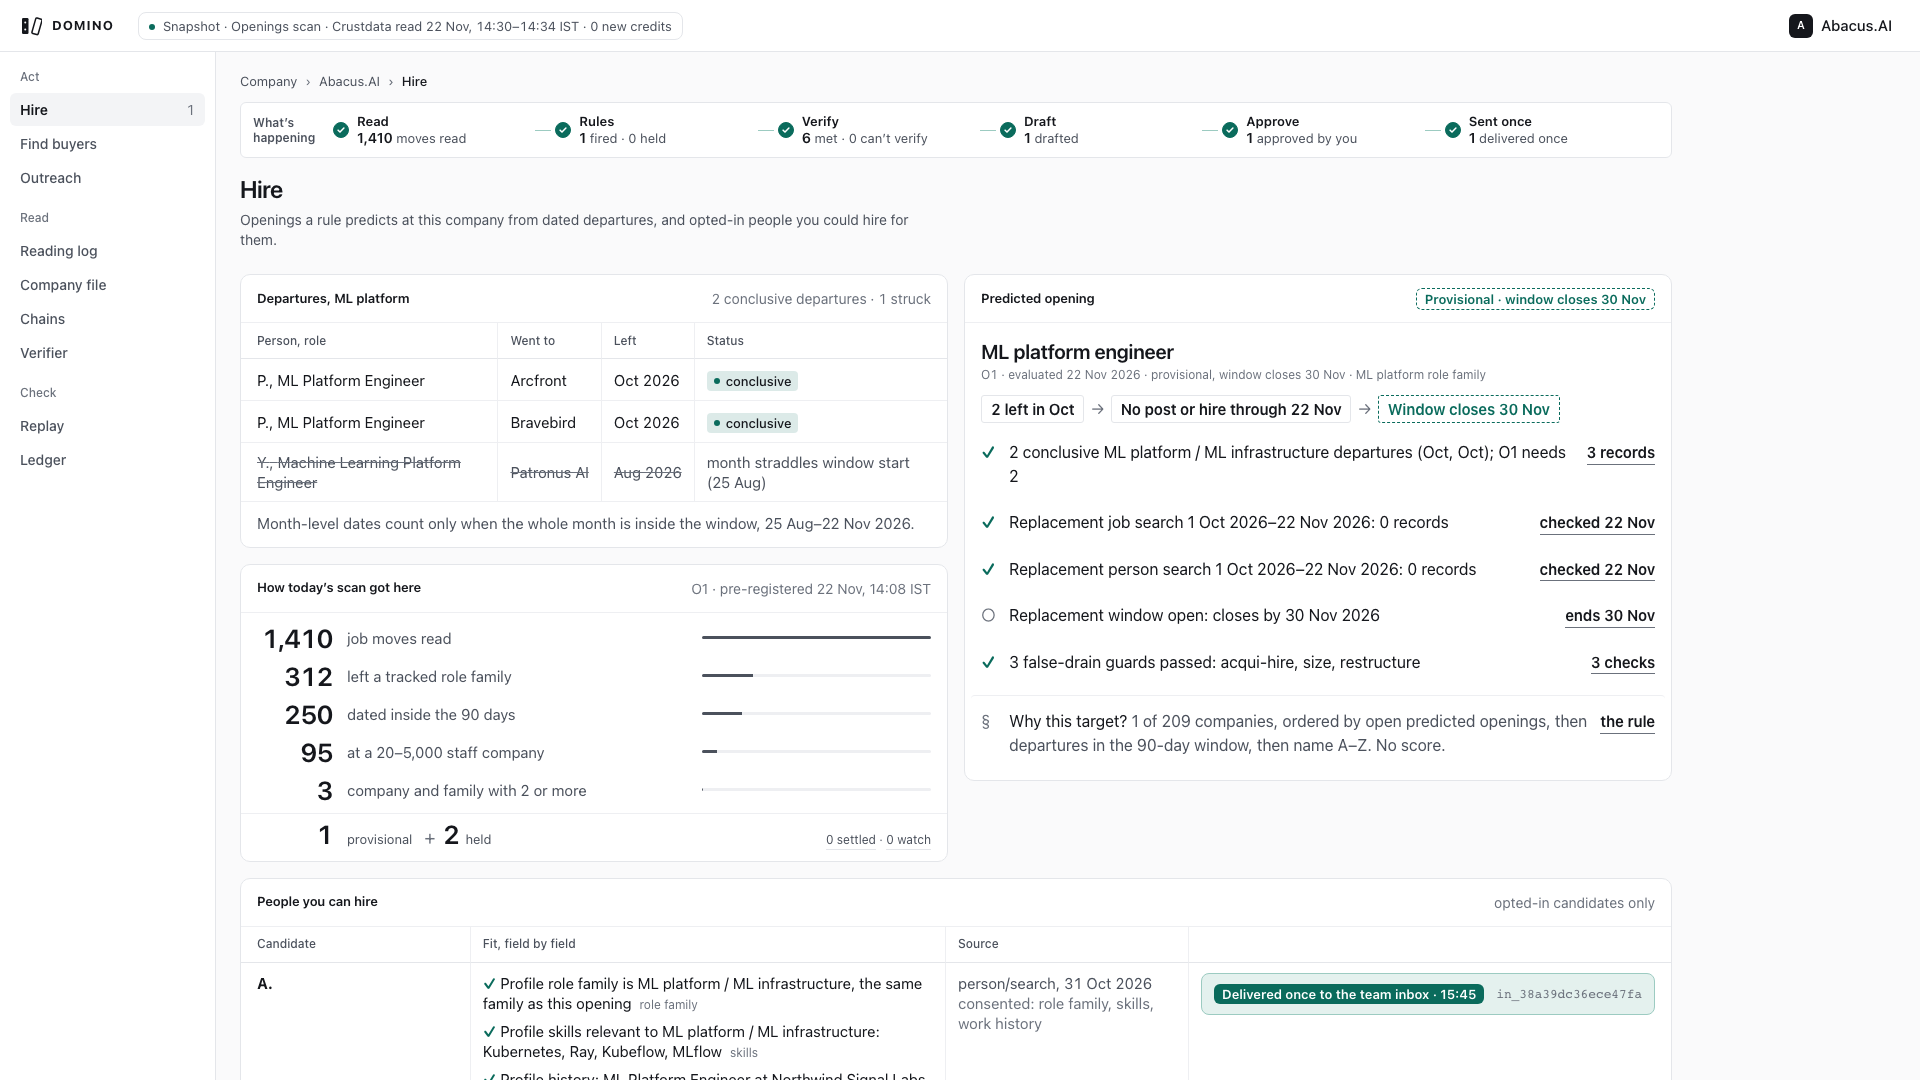
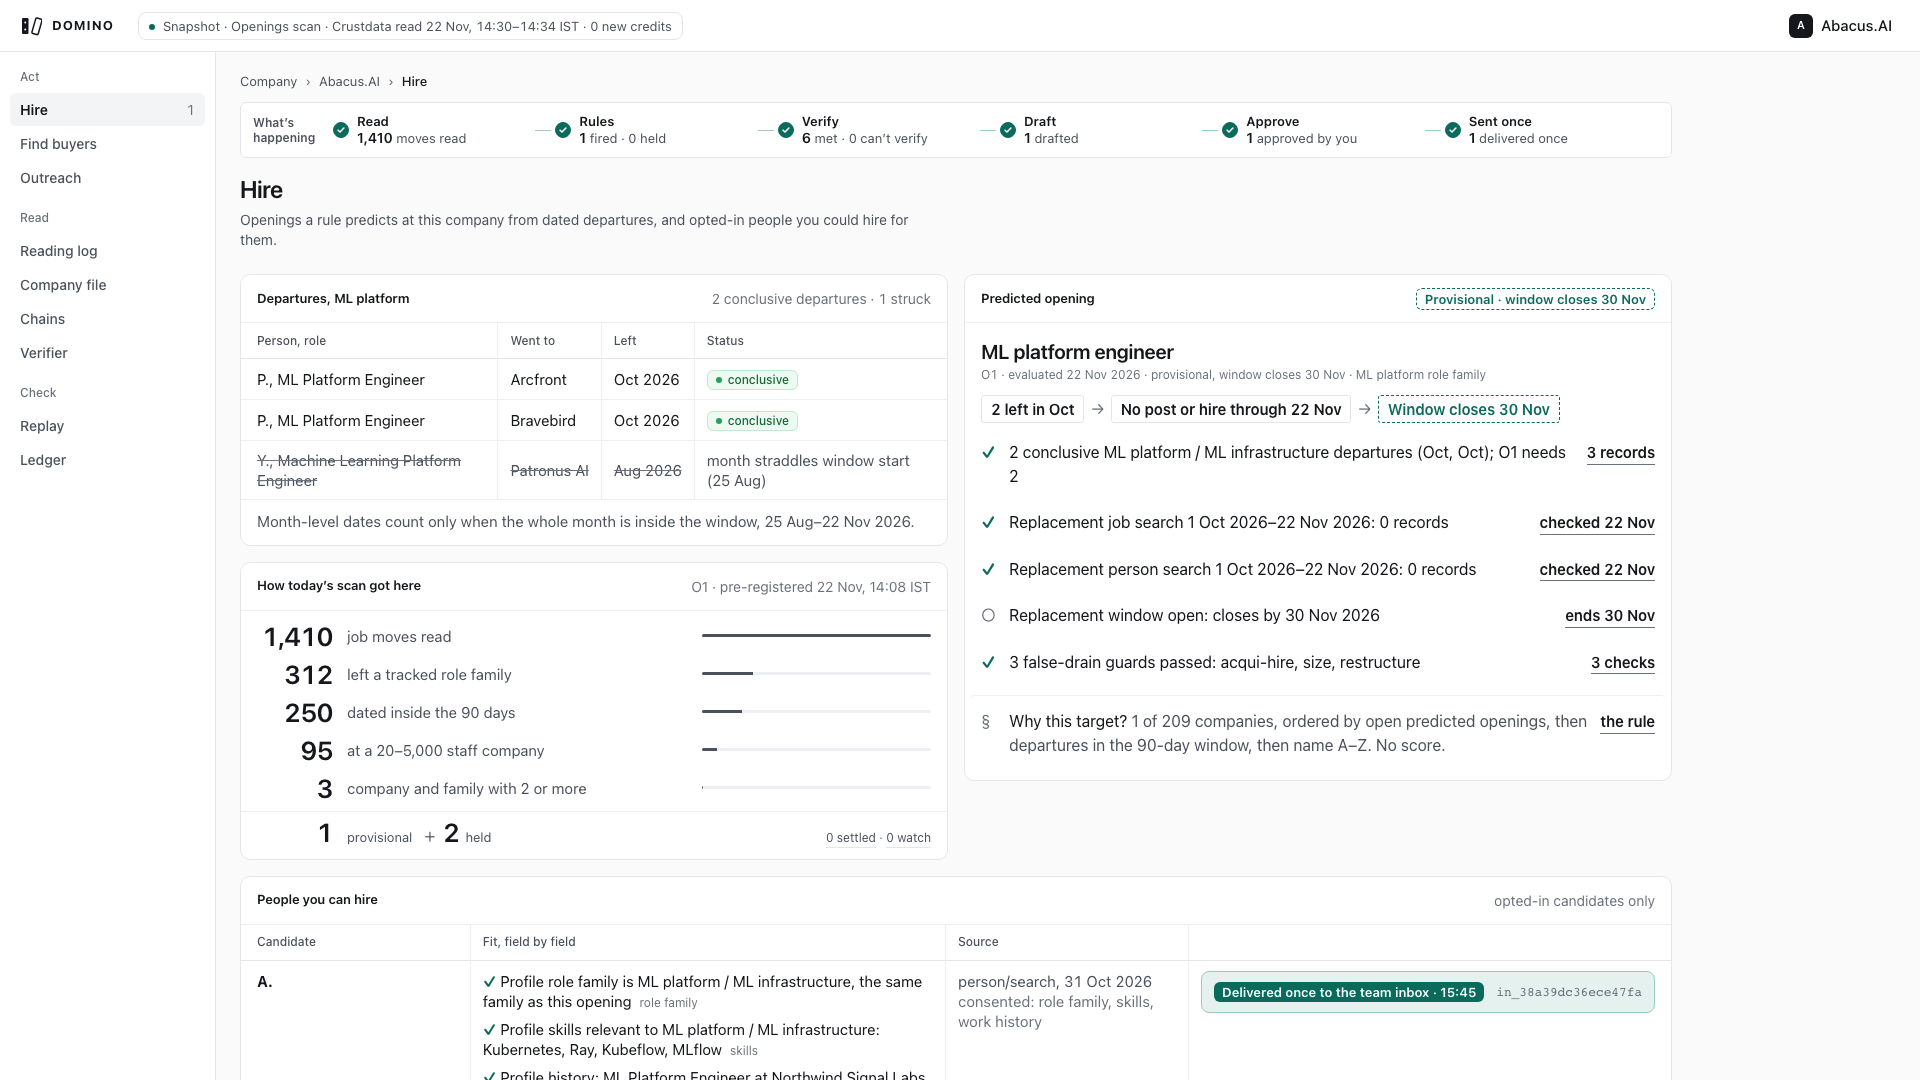
Hire and Reading log: shared colour chips (ctag + tone/src classes from p7-color) for decisions, sources and departure status

diff --git a/web2/src/features/reading/reading.css b/web2/src/features/reading/reading.css
@@ -132,31 +132,17 @@ tr:not(.rd-sub) + .rd-sub td, .rd-sub + .rd-sub td { border-top: 0; }
 .rd-showing, .rd-seg button span { font-variant-numeric: tabular-nums; }
 .rd-seg { border-radius: var(--r); }
 .rd-seg button { padding: 3px 10px; }
-.rd-pill {
-  display: inline-flex; align-items: center; gap: 6px; height: 22px; padding: 0 8px; border: 1px solid var(--rule); border-radius: var(--r);
-  font-size: var(--fs-cap); font-weight: var(--w-med); color: var(--ink); background: var(--surface); white-space: nowrap;
-}
-.rd-pill i { width: 6px; height: 6px; border-radius: var(--r-pill); background: var(--ink-3); flex: none; }
-.rd-pill-kept i, .rd-pill-provisional i { background: var(--acc); }
-.rd-pill-provisional { border-style: dashed; border-color: var(--acc); }
-.rd-pill-discarded { color: var(--ink-2); }
-.rd-pill-discarded i { background: transparent; border: 1.5px solid var(--ink-3); width: 7px; height: 7px; box-sizing: border-box; }
-.rd-pill-held, .rd-pill-inconclusive { color: var(--ink-2); background: repeating-linear-gradient(135deg, transparent 0 3px, var(--hatch) 3px 5px); }
 .rd-sub td { padding-top: 6px; padding-bottom: 6px; }
-.rd-sub .rd-pill { height: 20px; }
 @media (min-width: 1800px) {
   .rd-table, .rd-date { font-size: var(--fs-body); }
 }
 
-/* Attio SPEC + council r1: hairline column dividers, filled tinted chips with no stroke (source type neutral, kept a
-   teal tint for meaning), 38-40px rows (a 20px pill inside 9px cell padding), and the domain in sans like every cell. */
+/* Attio SPEC + council r1: hairline column dividers, 38-40px rows (a 20px shared .ctag inside 9px cell padding), the
+   domain in sans like every cell. Chip colours come from styles/colors.css (decision tone, source type). */
 .rd-table th + th, .rd-table td + td { border-left: 1px solid var(--rule-2); }
 .rd-table td { padding-top: 9px; padding-bottom: 9px; }
+.rd-table .rd-sub td { padding-top: 6px; padding-bottom: 6px; }
+.rd-table .ctag { height: 20px; }
+.rd-table .c-src { width: 140px; }
 .rd-dom { font-family: var(--sans); font-size: var(--fs-ui); letter-spacing: 0; }
-.rd-chip, .rd-pill { height: 20px; padding: 0 7px; border: 0; border-radius: var(--r-sm); font-size: var(--fs-cap); font-weight: var(--w-med); }
-.rd-chip { display: inline-flex; align-items: center; background: var(--hover); color: var(--ink-2); white-space: nowrap; }
-.rd-pill { background: var(--hover); }
-.rd-pill-kept { background: color-mix(in srgb, var(--acc) 14%, transparent); }
-.rd-pill-provisional { background: transparent; border: 1px dashed var(--acc); }
-.rd-pill-held, .rd-pill-inconclusive { border: 1px solid var(--rule); }
 

diff --git a/web2/src/features/reading/Reading.tsx b/web2/src/features/reading/Reading.tsx
@@ -287,7 +287,7 @@ const Row = memo(function Row({ r, settled }: { r: LogRow; settled: boolean }) {
   return (
     <tr ref={ref} data-testid="reading-row" data-decision={r.decision} className={[open && 'rd-open', r.sub && 'rd-sub'].filter(Boolean).join(' ') || undefined}
       onClick={open} tabIndex={open ? 0 : undefined} onKeyDown={open ? (e) => { if (e.key === 'Enter') open(); } : undefined}>
-      <td className="rd-src"><span className="rd-chip">{r.source}</span></td>
+      <td className="rd-src"><span className={`ctag ${srcClass(r.source)}`}>{r.source}</span></td>
       <td className="rd-title" title={r.title}>{r.title}</td>
       <td className="rd-date" title={r.monthLevel ? 'month-level date' : undefined}>{r.date}</td>
       <td className={r.domain ? 'mono rd-dom' : 'faint'} title={r.domain ?? 'no domain on record'}>{r.domain ?? '–'}</td>
@@ -304,7 +304,21 @@ function Clause({ text }: { text: string }) {
   return <span>{text}</span>;
 }
 
+/** Decision and source chips use the shared colour classes (styles/colors.css): one hue per meaning on every screen. */
+const TONE: Record<Decision, string> = {
+  kept: 'tone-met', provisional: 'tone-provisional', discarded: 'tone-not-met', held: 'tone-held', inconclusive: 'tone-not-evaluated',
+};
 function DecisionMark({ d }: { d: Decision }) {
   const label = d === 'kept' ? 'kept at this step' : d === 'inconclusive' ? 'not conclusive' : d;
-  return <span className={`rd-pill rd-pill-${d}`}><i aria-hidden />{label}</span>;
+  return <span className={`ctag ${TONE[d]}`}>{label}</span>;
+}
+
+function srcClass(source: string): string {
+  if (/^person/i.test(source)) return 'src-person';
+  if (/^company/i.test(source)) return 'src-company';
+  if (/^job/i.test(source)) return 'src-job';
+  if (/news/i.test(source)) return 'src-news';
+  if (/^web/i.test(source)) return 'src-web';
+  if (/rule/i.test(source)) return 'rule-o1';
+  return '';
 }

diff --git a/web2/src/features/openings/openings.css b/web2/src/features/openings/openings.css
@@ -187,20 +187,14 @@
 .rec-hire td:nth-child(3) { font-variant-numeric: tabular-nums; }
 .rec-fit li + li { margin-top: 4px; }
 .rec-foot { padding: 10px var(--cell-x-edge) 12px; }
-.rec-pill {
-  display: inline-flex; align-items: center; gap: 6px; height: 22px; padding: 0 8px; border: 1px solid var(--rule); border-radius: var(--r);
-  font-size: var(--fs-cap); font-weight: var(--w-med); color: var(--ink); background: var(--surface); white-space: nowrap;
-}
-.rec-pill i { width: 6px; height: 6px; border-radius: var(--r-pill); background: var(--acc); }
 @media (min-width: 1800px) {
   .rec table.t td { font-size: var(--fs-lead); padding-top: 10px; padding-bottom: 10px; }
   .rec-role { font-size: var(--fs-page); line-height: var(--lh-page); }
-  .rec-pill { font-size: var(--fs-ui); height: 24px; }
   .rec .panel > header > span:not(.st) { font-size: var(--fs-body); }
 }
 
 /* Attio SPEC + council r1: hairline column dividers, a filled teal-tint pill with no stroke, 38-40px rows. */
 .rec-dep table.t th + th, .rec-dep table.t td + td, .rec-hire th + th, .rec-hire td + td { border-left: 1px solid var(--rule-2); }
 .rec-dep table.t td { padding-top: 9px; padding-bottom: 9px; }
-.rec-pill { height: 20px; padding: 0 7px; border: 0; border-radius: var(--r-sm); background: color-mix(in srgb, var(--acc) 14%, transparent); }
+.rec-dep .ctag { height: 20px; }
 

diff --git a/web2/src/features/openings/Openings.tsx b/web2/src/features/openings/Openings.tsx
@@ -93,7 +93,7 @@ function DepRow({ r, start }: { r: DepartureRow; start: string | null }) {
       <td className={s}>{r.d.toCompanyName ?? 'not stated'}</td>
       <td className={s} data-num>{r.month ? fmtDate(r.month, true) : 'undated'}</td>
       <td>
-        {r.conclusive === true && <span className="rec-pill"><i aria-hidden />conclusive</span>}
+        {r.conclusive === true && <span className="ctag tone-met">conclusive</span>}
         {r.conclusive === false && <span className="muted">{r.reason}{start ? ` (${start})` : ''}</span>}
         {r.conclusive === null && <span className="faint">not assessed</span>}
       </td>
